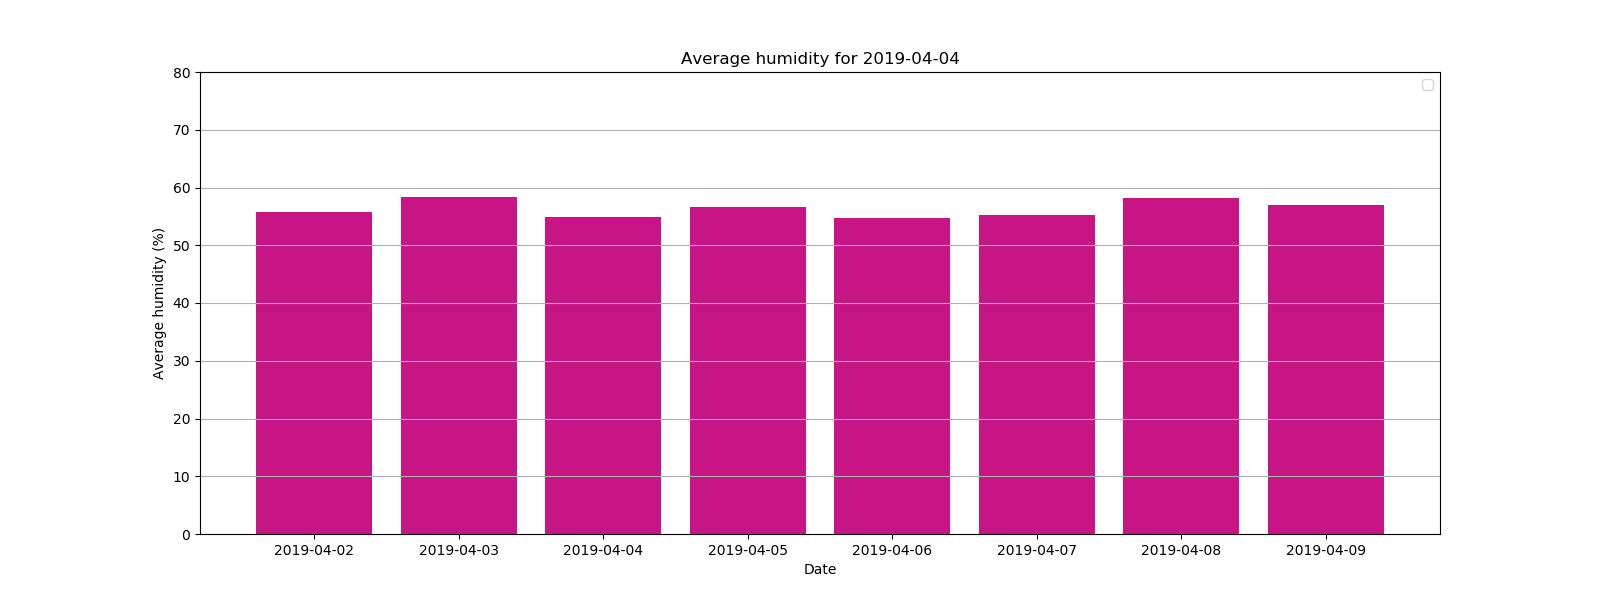
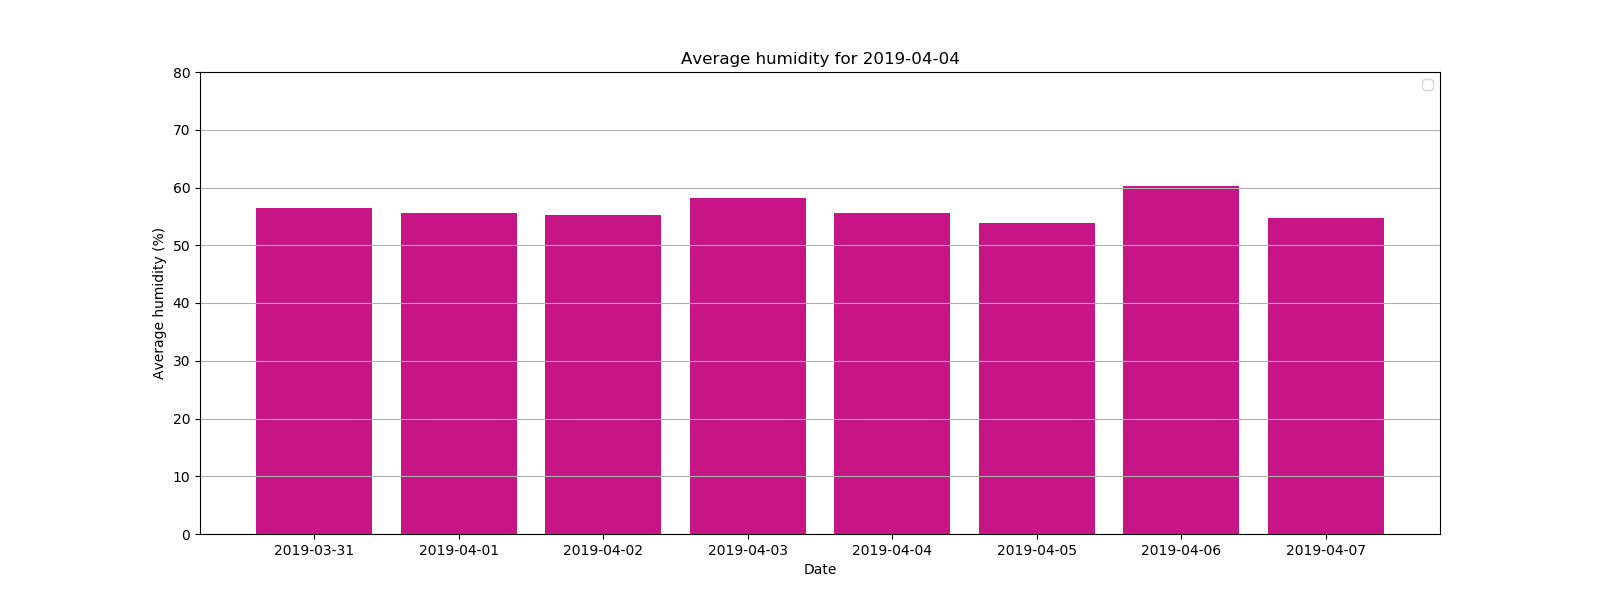
Delete the old VirtualSenseHat

diff --git a/TemperaturePlot.html b/TemperaturePlot.html
@@ -35,14 +35,14 @@
           
           
             
-              <div class="bk-root" id="c73d7094-cba7-43d9-8dc5-96686244be1a" data-root-id="1002"></div>
+              <div class="bk-root" id="6def220e-9806-49bf-b8c4-16e66e667745" data-root-id="1002"></div>
             
           
         
       
       
         <script type="application/json" id="1323">
-          {"90017d67-7eb4-46b7-b480-13339417af89":{"roots":{"references":[{"attributes":{},"id":"1025","type":"SaveTool"},{"attributes":{"months":[0,2,4,6,8,10]},"id":"1056","type":"MonthsTicker"},{"attributes":{"callback":null},"id":"1004","type":"DataRange1d"},{"attributes":{},"id":"1026","type":"ResetTool"},{"attributes":{"months":[0,4,8]},"id":"1057","type":"MonthsTicker"},{"attributes":{"callback":null},"id":"1006","type":"DataRange1d"},{"attributes":{},"id":"1027","type":"HelpTool"},{"attributes":{"months":[0,6]},"id":"1058","type":"MonthsTicker"},{"attributes":{"active_drag":"auto","active_inspect":"auto","active_multi":null,"active_scroll":"auto","active_tap":"auto","tools":[{"id":"1022","type":"PanTool"},{"id":"1023","type":"WheelZoomTool"},{"id":"1024","type":"BoxZoomTool"},{"id":"1025","type":"SaveTool"},{"id":"1026","type":"ResetTool"},{"id":"1027","type":"HelpTool"}]},"id":"1028","type":"Toolbar"},{"attributes":{},"id":"1008","type":"LinearScale"},{"attributes":{},"id":"1059","type":"YearsTicker"},{"attributes":{"line_alpha":0.1,"line_color":"#1f77b4","line_width":2,"x":{"field":"x"},"y":{"field":"y"}},"id":"1041","type":"Line"},{"attributes":{},"id":"1104","type":"UnionRenderers"},{"attributes":{"mantissas":[1,2,5],"max_interval":500.0,"num_minor_ticks":0},"id":"1060","type":"AdaptiveTicker"},{"attributes":{"bottom_units":"screen","fill_alpha":{"value":0.5},"fill_color":{"value":"lightgrey"},"left_units":"screen","level":"overlay","line_alpha":{"value":1.0},"line_color":{"value":"black"},"line_dash":[4,4],"line_width":{"value":2},"plot":null,"render_mode":"css","right_units":"screen","top_units":"screen"},"id":"1030","type":"BoxAnnotation"},{"attributes":{},"id":"1010","type":"LinearScale"},{"attributes":{"axis_label":"Time","formatter":{"id":"1045","type":"DatetimeTickFormatter"},"plot":{"id":"1002","subtype":"Figure","type":"Plot"},"ticker":{"id":"1037","type":"DatetimeTicker"}},"id":"1012","type":"DatetimeAxis"},{"attributes":{"base":60,"mantissas":[1,2,5,10,15,20,30],"max_interval":1800000.0,"min_interval":1000.0,"num_minor_ticks":0},"id":"1061","type":"AdaptiveTicker"},{"attributes":{"data_source":{"id":"1039","type":"ColumnDataSource"},"glyph":{"id":"1040","type":"Line"},"hover_glyph":null,"muted_glyph":null,"nonselection_glyph":{"id":"1041","type":"Line"},"selection_glyph":null,"view":{"id":"1043","type":"CDSView"}},"id":"1042","type":"GlyphRenderer"},{"attributes":{"num_minor_ticks":5,"tickers":[{"id":"1060","type":"AdaptiveTicker"},{"id":"1061","type":"AdaptiveTicker"},{"id":"1062","type":"AdaptiveTicker"},{"id":"1063","type":"DaysTicker"},{"id":"1064","type":"DaysTicker"},{"id":"1065","type":"DaysTicker"},{"id":"1066","type":"DaysTicker"},{"id":"1067","type":"MonthsTicker"},{"id":"1068","type":"MonthsTicker"},{"id":"1069","type":"MonthsTicker"},{"id":"1070","type":"MonthsTicker"},{"id":"1071","type":"YearsTicker"}]},"id":"1013","type":"DatetimeTicker"},{"attributes":{"base":24,"mantissas":[1,2,4,6,8,12],"max_interval":43200000.0,"min_interval":3600000.0,"num_minor_ticks":0},"id":"1062","type":"AdaptiveTicker"},{"attributes":{"source":{"id":"1039","type":"ColumnDataSource"}},"id":"1043","type":"CDSView"},{"attributes":{"label":{"value":"Temperature"},"renderers":[{"id":"1042","type":"GlyphRenderer"}]},"id":"1074","type":"LegendItem"},{"attributes":{"days":[1,2,3,4,5,6,7,8,9,10,11,12,13,14,15,16,17,18,19,20,21,22,23,24,25,26,27,28,29,30,31]},"id":"1063","type":"DaysTicker"},{"attributes":{},"id":"1045","type":"DatetimeTickFormatter"},{"attributes":{"plot":{"id":"1002","subtype":"Figure","type":"Plot"},"ticker":{"id":"1013","type":"DatetimeTicker"}},"id":"1016","type":"Grid"},{"attributes":{"days":[1,4,7,10,13,16,19,22,25,28]},"id":"1064","type":"DaysTicker"},{"attributes":{},"id":"1046","type":"BasicTickFormatter"},{"attributes":{"axis_label":"Temperature (*C)","formatter":{"id":"1046","type":"BasicTickFormatter"},"plot":{"id":"1002","subtype":"Figure","type":"Plot"},"ticker":{"id":"1018","type":"BasicTicker"}},"id":"1017","type":"LinearAxis"},{"attributes":{"days":[1,8,15,22]},"id":"1065","type":"DaysTicker"},{"attributes":{"mantissas":[1,2,5],"max_interval":500.0,"num_minor_ticks":0},"id":"1048","type":"AdaptiveTicker"},{"attributes":{},"id":"1018","type":"BasicTicker"},{"attributes":{"days":[1,15]},"id":"1066","type":"DaysTicker"},{"attributes":{"dimension":1,"plot":{"id":"1002","subtype":"Figure","type":"Plot"},"ticker":{"id":"1018","type":"BasicTicker"}},"id":"1021","type":"Grid"},{"attributes":{},"id":"1103","type":"Selection"},{"attributes":{"base":60,"mantissas":[1,2,5,10,15,20,30],"max_interval":1800000.0,"min_interval":1000.0,"num_minor_ticks":0},"id":"1049","type":"AdaptiveTicker"},{"attributes":{"months":[0,1,2,3,4,5,6,7,8,9,10,11]},"id":"1067","type":"MonthsTicker"},{"attributes":{"base":24,"mantissas":[1,2,4,6,8,12],"max_interval":43200000.0,"min_interval":3600000.0,"num_minor_ticks":0},"id":"1050","type":"AdaptiveTicker"},{"attributes":{"callback":null,"data":{"x":[2492385.131,6092385.131,9692385.131,13292385.131,16892385.131,20492385.131,24092385.131,27692385.131,31292385.131,34892385.131,38492385.131,42092385.131,45692385.131,49292385.131,52892385.131,56492385.131,60092385.131,63692385.131,67292385.131,70892385.131,74492385.131,78092385.131,81692385.131,85292385.131],"y":[25.99,10.71,11.12,17.5,21.02,11.79,20.47,29.61,26.75,19.62,13.69,11.49,15.15,24.0,23.0,13.62,23.37,10.28,27.62,19.41,22.42,26.7,21.82,11.25]},"selected":{"id":"1103","type":"Selection"},"selection_policy":{"id":"1104","type":"UnionRenderers"}},"id":"1039","type":"ColumnDataSource"},{"attributes":{"months":[0,2,4,6,8,10]},"id":"1068","type":"MonthsTicker"},{"attributes":{"below":[{"id":"1012","type":"DatetimeAxis"}],"left":[{"id":"1017","type":"LinearAxis"}],"plot_width":1200,"renderers":[{"id":"1012","type":"DatetimeAxis"},{"id":"1016","type":"Grid"},{"id":"1017","type":"LinearAxis"},{"id":"1021","type":"Grid"},{"id":"1030","type":"BoxAnnotation"},{"id":"1073","type":"Legend"},{"id":"1042","type":"GlyphRenderer"}],"title":{"id":"1001","type":"Title"},"toolbar":{"id":"1028","type":"Toolbar"},"x_range":{"id":"1004","type":"DataRange1d"},"x_scale":{"id":"1008","type":"LinearScale"},"y_range":{"id":"1006","type":"DataRange1d"},"y_scale":{"id":"1010","type":"LinearScale"}},"id":"1002","subtype":"Figure","type":"Plot"},{"attributes":{"plot":null,"text":"Temperature for 2019-04-04"},"id":"1001","type":"Title"},{"attributes":{"days":[1,2,3,4,5,6,7,8,9,10,11,12,13,14,15,16,17,18,19,20,21,22,23,24,25,26,27,28,29,30,31]},"id":"1051","type":"DaysTicker"},{"attributes":{"months":[0,4,8]},"id":"1069","type":"MonthsTicker"},{"attributes":{"desired_num_ticks":24,"tickers":[{"id":"1048","type":"AdaptiveTicker"},{"id":"1049","type":"AdaptiveTicker"},{"id":"1050","type":"AdaptiveTicker"},{"id":"1051","type":"DaysTicker"},{"id":"1052","type":"DaysTicker"},{"id":"1053","type":"DaysTicker"},{"id":"1054","type":"DaysTicker"},{"id":"1055","type":"MonthsTicker"},{"id":"1056","type":"MonthsTicker"},{"id":"1057","type":"MonthsTicker"},{"id":"1058","type":"MonthsTicker"},{"id":"1059","type":"YearsTicker"}]},"id":"1037","type":"DatetimeTicker"},{"attributes":{"days":[1,4,7,10,13,16,19,22,25,28]},"id":"1052","type":"DaysTicker"},{"attributes":{},"id":"1022","type":"PanTool"},{"attributes":{"months":[0,6]},"id":"1070","type":"MonthsTicker"},{"attributes":{"line_color":"#1f77b4","line_width":2,"x":{"field":"x"},"y":{"field":"y"}},"id":"1040","type":"Line"},{"attributes":{"days":[1,8,15,22]},"id":"1053","type":"DaysTicker"},{"attributes":{},"id":"1023","type":"WheelZoomTool"},{"attributes":{},"id":"1071","type":"YearsTicker"},{"attributes":{"days":[1,15]},"id":"1054","type":"DaysTicker"},{"attributes":{"items":[{"id":"1074","type":"LegendItem"}],"plot":{"id":"1002","subtype":"Figure","type":"Plot"}},"id":"1073","type":"Legend"},{"attributes":{"overlay":{"id":"1030","type":"BoxAnnotation"}},"id":"1024","type":"BoxZoomTool"},{"attributes":{"months":[0,1,2,3,4,5,6,7,8,9,10,11]},"id":"1055","type":"MonthsTicker"}],"root_ids":["1002"]},"title":"Bokeh Application","version":"1.0.4"}}
+          {"479c8fb5-23a7-4d3f-9a36-4980ed151d58":{"roots":{"references":[{"attributes":{"callback":null},"id":"1006","type":"DataRange1d"},{"attributes":{"mantissas":[1,2,5],"max_interval":500.0,"num_minor_ticks":0},"id":"1061","type":"AdaptiveTicker"},{"attributes":{"active_drag":"auto","active_inspect":"auto","active_multi":null,"active_scroll":"auto","active_tap":"auto","tools":[{"id":"1022","type":"PanTool"},{"id":"1023","type":"WheelZoomTool"},{"id":"1024","type":"BoxZoomTool"},{"id":"1025","type":"SaveTool"},{"id":"1026","type":"ResetTool"},{"id":"1027","type":"HelpTool"}]},"id":"1028","type":"Toolbar"},{"attributes":{},"id":"1105","type":"Selection"},{"attributes":{"mantissas":[1,2,5],"max_interval":500.0,"num_minor_ticks":0},"id":"1049","type":"AdaptiveTicker"},{"attributes":{},"id":"1008","type":"LinearScale"},{"attributes":{"base":60,"mantissas":[1,2,5,10,15,20,30],"max_interval":1800000.0,"min_interval":1000.0,"num_minor_ticks":0},"id":"1062","type":"AdaptiveTicker"},{"attributes":{"bottom_units":"screen","fill_alpha":{"value":0.5},"fill_color":{"value":"lightgrey"},"left_units":"screen","level":"overlay","line_alpha":{"value":1.0},"line_color":{"value":"black"},"line_dash":[4,4],"line_width":{"value":2},"plot":null,"render_mode":"css","right_units":"screen","top_units":"screen"},"id":"1030","type":"BoxAnnotation"},{"attributes":{"months":[0,2,4,6,8,10]},"id":"1057","type":"MonthsTicker"},{"attributes":{},"id":"1010","type":"LinearScale"},{"attributes":{"base":24,"mantissas":[1,2,4,6,8,12],"max_interval":43200000.0,"min_interval":3600000.0,"num_minor_ticks":0},"id":"1063","type":"AdaptiveTicker"},{"attributes":{"data_source":{"id":"1039","type":"ColumnDataSource"},"glyph":{"id":"1040","type":"Line"},"hover_glyph":null,"muted_glyph":null,"nonselection_glyph":{"id":"1041","type":"Line"},"selection_glyph":null,"view":{"id":"1043","type":"CDSView"}},"id":"1042","type":"GlyphRenderer"},{"attributes":{"axis_label":"Time","formatter":{"id":"1047","type":"DatetimeTickFormatter"},"plot":{"id":"1002","subtype":"Figure","type":"Plot"},"ticker":{"id":"1037","type":"DatetimeTicker"}},"id":"1012","type":"DatetimeAxis"},{"attributes":{"days":[1,2,3,4,5,6,7,8,9,10,11,12,13,14,15,16,17,18,19,20,21,22,23,24,25,26,27,28,29,30,31]},"id":"1064","type":"DaysTicker"},{"attributes":{"source":{"id":"1039","type":"ColumnDataSource"}},"id":"1043","type":"CDSView"},{"attributes":{"num_minor_ticks":5,"tickers":[{"id":"1061","type":"AdaptiveTicker"},{"id":"1062","type":"AdaptiveTicker"},{"id":"1063","type":"AdaptiveTicker"},{"id":"1064","type":"DaysTicker"},{"id":"1065","type":"DaysTicker"},{"id":"1066","type":"DaysTicker"},{"id":"1067","type":"DaysTicker"},{"id":"1068","type":"MonthsTicker"},{"id":"1069","type":"MonthsTicker"},{"id":"1070","type":"MonthsTicker"},{"id":"1071","type":"MonthsTicker"},{"id":"1072","type":"YearsTicker"}]},"id":"1013","type":"DatetimeTicker"},{"attributes":{"days":[1,4,7,10,13,16,19,22,25,28]},"id":"1065","type":"DaysTicker"},{"attributes":{},"id":"1046","type":"BasicTickFormatter"},{"attributes":{"label":{"value":"Temperature"},"renderers":[{"id":"1042","type":"GlyphRenderer"}]},"id":"1074","type":"LegendItem"},{"attributes":{"days":[1,8,15,22]},"id":"1066","type":"DaysTicker"},{"attributes":{},"id":"1047","type":"DatetimeTickFormatter"},{"attributes":{"plot":{"id":"1002","subtype":"Figure","type":"Plot"},"ticker":{"id":"1013","type":"DatetimeTicker"}},"id":"1016","type":"Grid"},{"attributes":{"days":[1,15]},"id":"1067","type":"DaysTicker"},{"attributes":{"axis_label":"Temperature (*C)","formatter":{"id":"1046","type":"BasicTickFormatter"},"plot":{"id":"1002","subtype":"Figure","type":"Plot"},"ticker":{"id":"1018","type":"BasicTicker"}},"id":"1017","type":"LinearAxis"},{"attributes":{"months":[0,1,2,3,4,5,6,7,8,9,10,11]},"id":"1068","type":"MonthsTicker"},{"attributes":{"base":60,"mantissas":[1,2,5,10,15,20,30],"max_interval":1800000.0,"min_interval":1000.0,"num_minor_ticks":0},"id":"1050","type":"AdaptiveTicker"},{"attributes":{},"id":"1018","type":"BasicTicker"},{"attributes":{"months":[0,2,4,6,8,10]},"id":"1069","type":"MonthsTicker"},{"attributes":{"base":24,"mantissas":[1,2,4,6,8,12],"max_interval":43200000.0,"min_interval":3600000.0,"num_minor_ticks":0},"id":"1051","type":"AdaptiveTicker"},{"attributes":{"dimension":1,"plot":{"id":"1002","subtype":"Figure","type":"Plot"},"ticker":{"id":"1018","type":"BasicTicker"}},"id":"1021","type":"Grid"},{"attributes":{"months":[0,4,8]},"id":"1070","type":"MonthsTicker"},{"attributes":{"days":[1,2,3,4,5,6,7,8,9,10,11,12,13,14,15,16,17,18,19,20,21,22,23,24,25,26,27,28,29,30,31]},"id":"1052","type":"DaysTicker"},{"attributes":{"line_alpha":0.1,"line_color":"#1f77b4","line_width":2,"x":{"field":"x"},"y":{"field":"y"}},"id":"1041","type":"Line"},{"attributes":{"callback":null,"data":{"x":[2492385.131,6092385.131,9692385.131,13292385.131,16892385.131,20492385.131,24092385.131,27692385.131,31292385.131,34892385.131,38492385.131,42092385.131,45692385.131,49292385.131,52892385.131,56492385.131,60092385.131,63692385.131,67292385.131,70892385.131,74492385.131,78092385.131,81692385.131,85292385.131],"y":[25.99,10.71,11.12,17.5,21.02,11.79,20.47,29.61,26.75,19.62,13.69,11.49,15.15,24.0,23.0,13.62,23.37,10.28,27.62,19.41,22.42,26.7,21.82,11.25]},"selected":{"id":"1105","type":"Selection"},"selection_policy":{"id":"1104","type":"UnionRenderers"}},"id":"1039","type":"ColumnDataSource"},{"attributes":{"months":[0,6]},"id":"1071","type":"MonthsTicker"},{"attributes":{"days":[1,4,7,10,13,16,19,22,25,28]},"id":"1053","type":"DaysTicker"},{"attributes":{"line_color":"#1f77b4","line_width":2,"x":{"field":"x"},"y":{"field":"y"}},"id":"1040","type":"Line"},{"attributes":{},"id":"1072","type":"YearsTicker"},{"attributes":{"below":[{"id":"1012","type":"DatetimeAxis"}],"left":[{"id":"1017","type":"LinearAxis"}],"plot_width":1200,"renderers":[{"id":"1012","type":"DatetimeAxis"},{"id":"1016","type":"Grid"},{"id":"1017","type":"LinearAxis"},{"id":"1021","type":"Grid"},{"id":"1030","type":"BoxAnnotation"},{"id":"1073","type":"Legend"},{"id":"1042","type":"GlyphRenderer"}],"title":{"id":"1001","type":"Title"},"toolbar":{"id":"1028","type":"Toolbar"},"x_range":{"id":"1004","type":"DataRange1d"},"x_scale":{"id":"1008","type":"LinearScale"},"y_range":{"id":"1006","type":"DataRange1d"},"y_scale":{"id":"1010","type":"LinearScale"}},"id":"1002","subtype":"Figure","type":"Plot"},{"attributes":{"desired_num_ticks":24,"tickers":[{"id":"1049","type":"AdaptiveTicker"},{"id":"1050","type":"AdaptiveTicker"},{"id":"1051","type":"AdaptiveTicker"},{"id":"1052","type":"DaysTicker"},{"id":"1053","type":"DaysTicker"},{"id":"1054","type":"DaysTicker"},{"id":"1055","type":"DaysTicker"},{"id":"1056","type":"MonthsTicker"},{"id":"1057","type":"MonthsTicker"},{"id":"1058","type":"MonthsTicker"},{"id":"1059","type":"MonthsTicker"},{"id":"1060","type":"YearsTicker"}]},"id":"1037","type":"DatetimeTicker"},{"attributes":{"days":[1,8,15,22]},"id":"1054","type":"DaysTicker"},{"attributes":{},"id":"1022","type":"PanTool"},{"attributes":{"items":[{"id":"1074","type":"LegendItem"}],"plot":{"id":"1002","subtype":"Figure","type":"Plot"}},"id":"1073","type":"Legend"},{"attributes":{"plot":null,"text":"Temperature for 2019-04-04"},"id":"1001","type":"Title"},{"attributes":{"days":[1,15]},"id":"1055","type":"DaysTicker"},{"attributes":{},"id":"1023","type":"WheelZoomTool"},{"attributes":{"months":[0,1,2,3,4,5,6,7,8,9,10,11]},"id":"1056","type":"MonthsTicker"},{"attributes":{"overlay":{"id":"1030","type":"BoxAnnotation"}},"id":"1024","type":"BoxZoomTool"},{"attributes":{},"id":"1104","type":"UnionRenderers"},{"attributes":{},"id":"1025","type":"SaveTool"},{"attributes":{"months":[0,4,8]},"id":"1058","type":"MonthsTicker"},{"attributes":{},"id":"1026","type":"ResetTool"},{"attributes":{"months":[0,6]},"id":"1059","type":"MonthsTicker"},{"attributes":{"callback":null},"id":"1004","type":"DataRange1d"},{"attributes":{},"id":"1027","type":"HelpTool"},{"attributes":{},"id":"1060","type":"YearsTicker"}],"root_ids":["1002"]},"title":"Bokeh Application","version":"1.0.4"}}
         </script>
         <script type="text/javascript">
           (function() {
@@ -52,7 +52,7 @@
                   function embed_document(root) {
                     
                   var docs_json = document.getElementById('1323').textContent;
-                  var render_items = [{"docid":"90017d67-7eb4-46b7-b480-13339417af89","roots":{"1002":"c73d7094-cba7-43d9-8dc5-96686244be1a"}}];
+                  var render_items = [{"docid":"479c8fb5-23a7-4d3f-9a36-4980ed151d58","roots":{"1002":"6def220e-9806-49bf-b8c4-16e66e667745"}}];
                   root.Bokeh.embed.embed_items(docs_json, render_items);
                 
                   }

diff --git a/HumidityPlot.html b/HumidityPlot.html
@@ -35,14 +35,14 @@
           
           
             
-              <div class="bk-root" id="4542ab6e-2022-4160-a0fb-549f3254a920" data-root-id="1325"></div>
+              <div class="bk-root" id="50c01093-c795-43d2-ad16-20458c1c62f0" data-root-id="1731"></div>
             
           
         
       
       
-        <script type="application/json" id="1646">
-          {"c5534fa0-166a-417d-960c-0623ef226293":{"roots":{"references":[{"attributes":{"items":[{"id":"1397","type":"LegendItem"}],"plot":{"id":"1325","subtype":"Figure","type":"Plot"}},"id":"1396","type":"Legend"},{"attributes":{"days":[1,2,3,4,5,6,7,8,9,10,11,12,13,14,15,16,17,18,19,20,21,22,23,24,25,26,27,28,29,30,31]},"id":"1374","type":"DaysTicker"},{"attributes":{"days":[1,2,3,4,5,6,7,8,9,10,11,12,13,14,15,16,17,18,19,20,21,22,23,24,25,26,27,28,29,30,31]},"id":"1386","type":"DaysTicker"},{"attributes":{"label":{"value":"Humidity"},"renderers":[{"id":"1365","type":"GlyphRenderer"}]},"id":"1397","type":"LegendItem"},{"attributes":{"callback":null,"data":{"x":[2492385.131,6092385.131,9692385.131,13292385.131,16892385.131,20492385.131,24092385.131,27692385.131,31292385.131,34892385.131,38492385.131,42092385.131,45692385.131,49292385.131,52892385.131,56492385.131,60092385.131,63692385.131,67292385.131,70892385.131,74492385.131,78092385.131,81692385.131,85292385.131],"y":[62.1,53.53,42.05,42.65,64.36,69.82,47.19,59.33,57.42,50.79,68.64,69.91,54.95,50.79,49.87,65.12,56.23,68.5,43.54,55.95,59.78,47.44,43.73,52.29]},"selected":{"id":"1426","type":"Selection"},"selection_policy":{"id":"1427","type":"UnionRenderers"}},"id":"1362","type":"ColumnDataSource"},{"attributes":{"days":[1,4,7,10,13,16,19,22,25,28]},"id":"1387","type":"DaysTicker"},{"attributes":{},"id":"1345","type":"PanTool"},{"attributes":{"months":[0,1,2,3,4,5,6,7,8,9,10,11]},"id":"1390","type":"MonthsTicker"},{"attributes":{"days":[1,15]},"id":"1377","type":"DaysTicker"},{"attributes":{"line_alpha":0.1,"line_color":"#1f77b4","line_width":2,"x":{"field":"x"},"y":{"field":"y"}},"id":"1364","type":"Line"},{"attributes":{"base":24,"mantissas":[1,2,4,6,8,12],"max_interval":43200000.0,"min_interval":3600000.0,"num_minor_ticks":0},"id":"1385","type":"AdaptiveTicker"},{"attributes":{"desired_num_ticks":24,"tickers":[{"id":"1371","type":"AdaptiveTicker"},{"id":"1372","type":"AdaptiveTicker"},{"id":"1373","type":"AdaptiveTicker"},{"id":"1374","type":"DaysTicker"},{"id":"1375","type":"DaysTicker"},{"id":"1376","type":"DaysTicker"},{"id":"1377","type":"DaysTicker"},{"id":"1378","type":"MonthsTicker"},{"id":"1379","type":"MonthsTicker"},{"id":"1380","type":"MonthsTicker"},{"id":"1381","type":"MonthsTicker"},{"id":"1382","type":"YearsTicker"}]},"id":"1360","type":"DatetimeTicker"},{"attributes":{"base":60,"mantissas":[1,2,5,10,15,20,30],"max_interval":1800000.0,"min_interval":1000.0,"num_minor_ticks":0},"id":"1384","type":"AdaptiveTicker"},{"attributes":{},"id":"1426","type":"Selection"},{"attributes":{"mantissas":[1,2,5],"max_interval":500.0,"num_minor_ticks":0},"id":"1371","type":"AdaptiveTicker"},{"attributes":{},"id":"1346","type":"WheelZoomTool"},{"attributes":{},"id":"1349","type":"ResetTool"},{"attributes":{},"id":"1382","type":"YearsTicker"},{"attributes":{"active_drag":"auto","active_inspect":"auto","active_multi":null,"active_scroll":"auto","active_tap":"auto","tools":[{"id":"1345","type":"PanTool"},{"id":"1346","type":"WheelZoomTool"},{"id":"1347","type":"BoxZoomTool"},{"id":"1348","type":"SaveTool"},{"id":"1349","type":"ResetTool"},{"id":"1350","type":"HelpTool"}]},"id":"1351","type":"Toolbar"},{"attributes":{},"id":"1427","type":"UnionRenderers"},{"attributes":{"mantissas":[1,2,5],"max_interval":500.0,"num_minor_ticks":0},"id":"1383","type":"AdaptiveTicker"},{"attributes":{"plot":null,"text":"Humidity for 2019-04-04"},"id":"1324","type":"Title"},{"attributes":{"below":[{"id":"1335","type":"DatetimeAxis"}],"left":[{"id":"1340","type":"LinearAxis"}],"plot_width":1200,"renderers":[{"id":"1335","type":"DatetimeAxis"},{"id":"1339","type":"Grid"},{"id":"1340","type":"LinearAxis"},{"id":"1344","type":"Grid"},{"id":"1353","type":"BoxAnnotation"},{"id":"1396","type":"Legend"},{"id":"1365","type":"GlyphRenderer"}],"title":{"id":"1324","type":"Title"},"toolbar":{"id":"1351","type":"Toolbar"},"x_range":{"id":"1327","type":"DataRange1d"},"x_scale":{"id":"1331","type":"LinearScale"},"y_range":{"id":"1329","type":"DataRange1d"},"y_scale":{"id":"1333","type":"LinearScale"}},"id":"1325","subtype":"Figure","type":"Plot"},{"attributes":{},"id":"1350","type":"HelpTool"},{"attributes":{},"id":"1394","type":"YearsTicker"},{"attributes":{},"id":"1331","type":"LinearScale"},{"attributes":{"line_color":"#1f77b4","line_width":2,"x":{"field":"x"},"y":{"field":"y"}},"id":"1363","type":"Line"},{"attributes":{},"id":"1348","type":"SaveTool"},{"attributes":{"months":[0,6]},"id":"1381","type":"MonthsTicker"},{"attributes":{"base":60,"mantissas":[1,2,5,10,15,20,30],"max_interval":1800000.0,"min_interval":1000.0,"num_minor_ticks":0},"id":"1372","type":"AdaptiveTicker"},{"attributes":{},"id":"1333","type":"LinearScale"},{"attributes":{"months":[0,4,8]},"id":"1380","type":"MonthsTicker"},{"attributes":{"overlay":{"id":"1353","type":"BoxAnnotation"}},"id":"1347","type":"BoxZoomTool"},{"attributes":{"axis_label":"Time","formatter":{"id":"1368","type":"DatetimeTickFormatter"},"plot":{"id":"1325","subtype":"Figure","type":"Plot"},"ticker":{"id":"1360","type":"DatetimeTicker"}},"id":"1335","type":"DatetimeAxis"},{"attributes":{"months":[0,2,4,6,8,10]},"id":"1379","type":"MonthsTicker"},{"attributes":{"num_minor_ticks":5,"tickers":[{"id":"1383","type":"AdaptiveTicker"},{"id":"1384","type":"AdaptiveTicker"},{"id":"1385","type":"AdaptiveTicker"},{"id":"1386","type":"DaysTicker"},{"id":"1387","type":"DaysTicker"},{"id":"1388","type":"DaysTicker"},{"id":"1389","type":"DaysTicker"},{"id":"1390","type":"MonthsTicker"},{"id":"1391","type":"MonthsTicker"},{"id":"1392","type":"MonthsTicker"},{"id":"1393","type":"MonthsTicker"},{"id":"1394","type":"YearsTicker"}]},"id":"1336","type":"DatetimeTicker"},{"attributes":{"months":[0,1,2,3,4,5,6,7,8,9,10,11]},"id":"1378","type":"MonthsTicker"},{"attributes":{"months":[0,2,4,6,8,10]},"id":"1391","type":"MonthsTicker"},{"attributes":{},"id":"1368","type":"DatetimeTickFormatter"},{"attributes":{"dimension":1,"plot":{"id":"1325","subtype":"Figure","type":"Plot"},"ticker":{"id":"1341","type":"BasicTicker"}},"id":"1344","type":"Grid"},{"attributes":{"days":[1,8,15,22]},"id":"1388","type":"DaysTicker"},{"attributes":{"source":{"id":"1362","type":"ColumnDataSource"}},"id":"1366","type":"CDSView"},{"attributes":{"plot":{"id":"1325","subtype":"Figure","type":"Plot"},"ticker":{"id":"1336","type":"DatetimeTicker"}},"id":"1339","type":"Grid"},{"attributes":{"days":[1,15]},"id":"1389","type":"DaysTicker"},{"attributes":{"data_source":{"id":"1362","type":"ColumnDataSource"},"glyph":{"id":"1363","type":"Line"},"hover_glyph":null,"muted_glyph":null,"nonselection_glyph":{"id":"1364","type":"Line"},"selection_glyph":null,"view":{"id":"1366","type":"CDSView"}},"id":"1365","type":"GlyphRenderer"},{"attributes":{"days":[1,8,15,22]},"id":"1376","type":"DaysTicker"},{"attributes":{"days":[1,4,7,10,13,16,19,22,25,28]},"id":"1375","type":"DaysTicker"},{"attributes":{"callback":null},"id":"1327","type":"DataRange1d"},{"attributes":{"callback":null},"id":"1329","type":"DataRange1d"},{"attributes":{"bottom_units":"screen","fill_alpha":{"value":0.5},"fill_color":{"value":"lightgrey"},"left_units":"screen","level":"overlay","line_alpha":{"value":1.0},"line_color":{"value":"black"},"line_dash":[4,4],"line_width":{"value":2},"plot":null,"render_mode":"css","right_units":"screen","top_units":"screen"},"id":"1353","type":"BoxAnnotation"},{"attributes":{"months":[0,4,8]},"id":"1392","type":"MonthsTicker"},{"attributes":{},"id":"1341","type":"BasicTicker"},{"attributes":{"months":[0,6]},"id":"1393","type":"MonthsTicker"},{"attributes":{},"id":"1369","type":"BasicTickFormatter"},{"attributes":{"base":24,"mantissas":[1,2,4,6,8,12],"max_interval":43200000.0,"min_interval":3600000.0,"num_minor_ticks":0},"id":"1373","type":"AdaptiveTicker"},{"attributes":{"axis_label":"Humidity (%)","formatter":{"id":"1369","type":"BasicTickFormatter"},"plot":{"id":"1325","subtype":"Figure","type":"Plot"},"ticker":{"id":"1341","type":"BasicTicker"}},"id":"1340","type":"LinearAxis"}],"root_ids":["1325"]},"title":"Bokeh Application","version":"1.0.4"}}
+        <script type="application/json" id="1812">
+          {"e95e641b-e869-4bc2-b7d9-67df3905f056":{"roots":{"references":[{"attributes":{"active_drag":"auto","active_inspect":"auto","active_multi":null,"active_scroll":"auto","active_tap":"auto"},"id":"1750","type":"Toolbar"},{"attributes":{"axis_label":"Average humidity (%)","formatter":{"id":"1758","type":"BasicTickFormatter"},"plot":{"id":"1731","subtype":"Figure","type":"Plot"},"ticker":{"id":"1746","type":"BasicTicker"}},"id":"1745","type":"LinearAxis"},{"attributes":{"callback":null,"factors":["2019-03-31","2019-04-01","2019-04-02","2019-04-03","2019-04-04","2019-04-05","2019-04-06","2019-04-07"]},"id":"1733","type":"FactorRange"},{"attributes":{},"id":"1758","type":"BasicTickFormatter"},{"attributes":{"callback":null,"end":80,"start":0},"id":"1735","type":"DataRange1d"},{"attributes":{"source":{"id":"1751","type":"ColumnDataSource"}},"id":"1755","type":"CDSView"},{"attributes":{"fill_color":{"value":"#1f77b4"},"line_color":{"value":"#1f77b4"},"top":{"field":"top"},"width":{"value":0.9},"x":{"field":"x"}},"id":"1752","type":"VBar"},{"attributes":{},"id":"1762","type":"Selection"},{"attributes":{"plot":null,"text":"Average humidity for 2019-03-31 to 2019-04-07"},"id":"1730","type":"Title"},{"attributes":{"grid_line_color":{"value":null},"plot":{"id":"1731","subtype":"Figure","type":"Plot"},"ticker":{"id":"1742","type":"CategoricalTicker"}},"id":"1744","type":"Grid"},{"attributes":{},"id":"1739","type":"LinearScale"},{"attributes":{"below":[{"id":"1741","type":"CategoricalAxis"}],"left":[{"id":"1745","type":"LinearAxis"}],"plot_height":400,"renderers":[{"id":"1741","type":"CategoricalAxis"},{"id":"1744","type":"Grid"},{"id":"1745","type":"LinearAxis"},{"id":"1749","type":"Grid"},{"id":"1754","type":"GlyphRenderer"}],"title":{"id":"1730","type":"Title"},"toolbar":{"id":"1750","type":"Toolbar"},"toolbar_location":null,"x_range":{"id":"1733","type":"FactorRange"},"x_scale":{"id":"1737","type":"CategoricalScale"},"y_range":{"id":"1735","type":"DataRange1d"},"y_scale":{"id":"1739","type":"LinearScale"}},"id":"1731","subtype":"Figure","type":"Plot"},{"attributes":{"axis_label":"Date","formatter":{"id":"1760","type":"CategoricalTickFormatter"},"plot":{"id":"1731","subtype":"Figure","type":"Plot"},"ticker":{"id":"1742","type":"CategoricalTicker"}},"id":"1741","type":"CategoricalAxis"},{"attributes":{"data_source":{"id":"1751","type":"ColumnDataSource"},"glyph":{"id":"1752","type":"VBar"},"hover_glyph":null,"muted_glyph":null,"nonselection_glyph":{"id":"1753","type":"VBar"},"selection_glyph":null,"view":{"id":"1755","type":"CDSView"}},"id":"1754","type":"GlyphRenderer"},{"attributes":{"fill_alpha":{"value":0.1},"fill_color":{"value":"#1f77b4"},"line_alpha":{"value":0.1},"line_color":{"value":"#1f77b4"},"top":{"field":"top"},"width":{"value":0.9},"x":{"field":"x"}},"id":"1753","type":"VBar"},{"attributes":{},"id":"1761","type":"UnionRenderers"},{"attributes":{},"id":"1746","type":"BasicTicker"},{"attributes":{"dimension":1,"plot":{"id":"1731","subtype":"Figure","type":"Plot"},"ticker":{"id":"1746","type":"BasicTicker"}},"id":"1749","type":"Grid"},{"attributes":{"callback":null,"data":{"top":[56.49,55.59,55.25,58.16,55.67,53.9,60.27,54.64],"x":["2019-03-31","2019-04-01","2019-04-02","2019-04-03","2019-04-04","2019-04-05","2019-04-06","2019-04-07"]},"selected":{"id":"1762","type":"Selection"},"selection_policy":{"id":"1761","type":"UnionRenderers"}},"id":"1751","type":"ColumnDataSource"},{"attributes":{},"id":"1742","type":"CategoricalTicker"},{"attributes":{},"id":"1760","type":"CategoricalTickFormatter"},{"attributes":{},"id":"1737","type":"CategoricalScale"}],"root_ids":["1731"]},"title":"Bokeh Application","version":"1.0.4"}}
         </script>
         <script type="text/javascript">
           (function() {
@@ -51,8 +51,8 @@
                 (function(root) {
                   function embed_document(root) {
                     
-                  var docs_json = document.getElementById('1646').textContent;
-                  var render_items = [{"docid":"c5534fa0-166a-417d-960c-0623ef226293","roots":{"1325":"4542ab6e-2022-4160-a0fb-549f3254a920"}}];
+                  var docs_json = document.getElementById('1812').textContent;
+                  var render_items = [{"docid":"e95e641b-e869-4bc2-b7d9-67df3905f056","roots":{"1731":"50c01093-c795-43d2-ad16-20458c1c62f0"}}];
                   root.Bokeh.embed.embed_items(docs_json, render_items);
                 
                   }

diff --git a/analytics.py b/analytics.py
@@ -17,7 +17,7 @@ import pandas as pd
 logging.basicConfig(level = logging.DEBUG)
 
 class Analytics:
-    def __init__(self, databaseName = "fakeData.db"):  # 'VirtualSenseHat.db'
+    def __init__(self, databaseName = 'VirtualSenseHat.db'):  # "fakeData.db"
         self.databaseName = databaseName
         self.database = Database(self.databaseName) 
         
